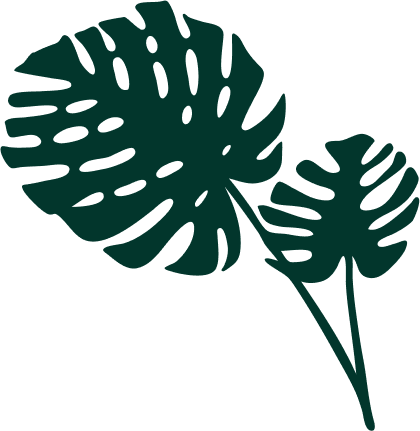
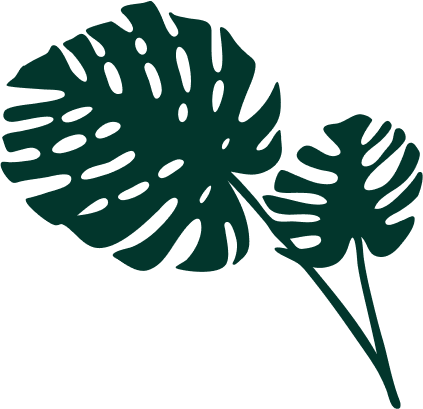
adjust the decoration leafes

Changed region(s): [[0.0, 0.0, 1.0, 1.0], [0.5262, 0.3227, 0.5571, 0.3814], [0.4643, 0.4401, 0.4952, 0.4988]]

diff --git a/index.html b/index.html
@@ -55,7 +55,7 @@
      <img class="first-left-img" src="/img//first-left-leaf.png" alt="" width="402" height="300" srcset="/img//first-left-leaf.png 1x, /img//first-left-leaf@2x.png 2x">
      <img class="third-right-img" src="/img/third-right-leaf.png" alt="" width="253" height="213" srcset="/img/third-right-leaf.png 1x, /img/third-right-leaf@2x.png 2x">
      <img class="second-right-img" src="/img/second-right-leaf.png" alt="" width="392" height="477" srcset="/img/second-right-leaf.png 1x, /img/second-right-leaf@2x.png">
-     <img class="fourth-left-img" src="/img/fourth-left-leaf.png" alt="" width="316" height="269" srcset="/img/fourth-left-leaf.png 1x, /img/fourth-left-leaf@2x.png 2x">
+     <img class="fourth-left-img" src="/img/fourth-left-leaf.png" alt="" width="253" height="215" srcset="/img/fourth-left-leaf.png 1x, /img/fourth-left-leaf@2x.png 2x">
 
      <div class="container">
                <section class="main-content">

diff --git a/css/style.css b/css/style.css
@@ -21,7 +21,10 @@ html{
 *::before{
      box-sizing: inherit;
 }
-
+*:focus{
+     outline: 2px dashed var(--secondary-color);
+     outline-offset: 3px;
+}
 body{
      padding: 0;
      margin: 0;
@@ -219,27 +222,28 @@ img{
 }
 .second-right-img {
      position: absolute;
-     right: -15.53%;
+     width: 291px;
+     height: 477px;
+     right: -12%;
      top: 24%;
-     transform: matrix(0.96, -0.29, 0.29, 0.96, 0, 0);
+     transform: matrix(0.92, -0.39, 0.29, 0.92, 0, 0)
 
 }
 .fourth-left-img {
      position: absolute;
-     left: -13.61%;
+     left: -11.61%;
      right: 91.67%;
-     top: 42.05%;
-     bottom: 100%;
+     top: 46.05%;
+     bottom: 48.11%;
      transform: rotate(-7deg);
 }
 .third-right-img {
      position: absolute;
      left: 92.64%;
-     top: 28%;
-     right: -25.76%;
+     top: 29%;
+     right: -4.76%;
      bottom: 49.72%;
-
-
+     transform: rotate(-7deg);
 }
 
 .main-content {
